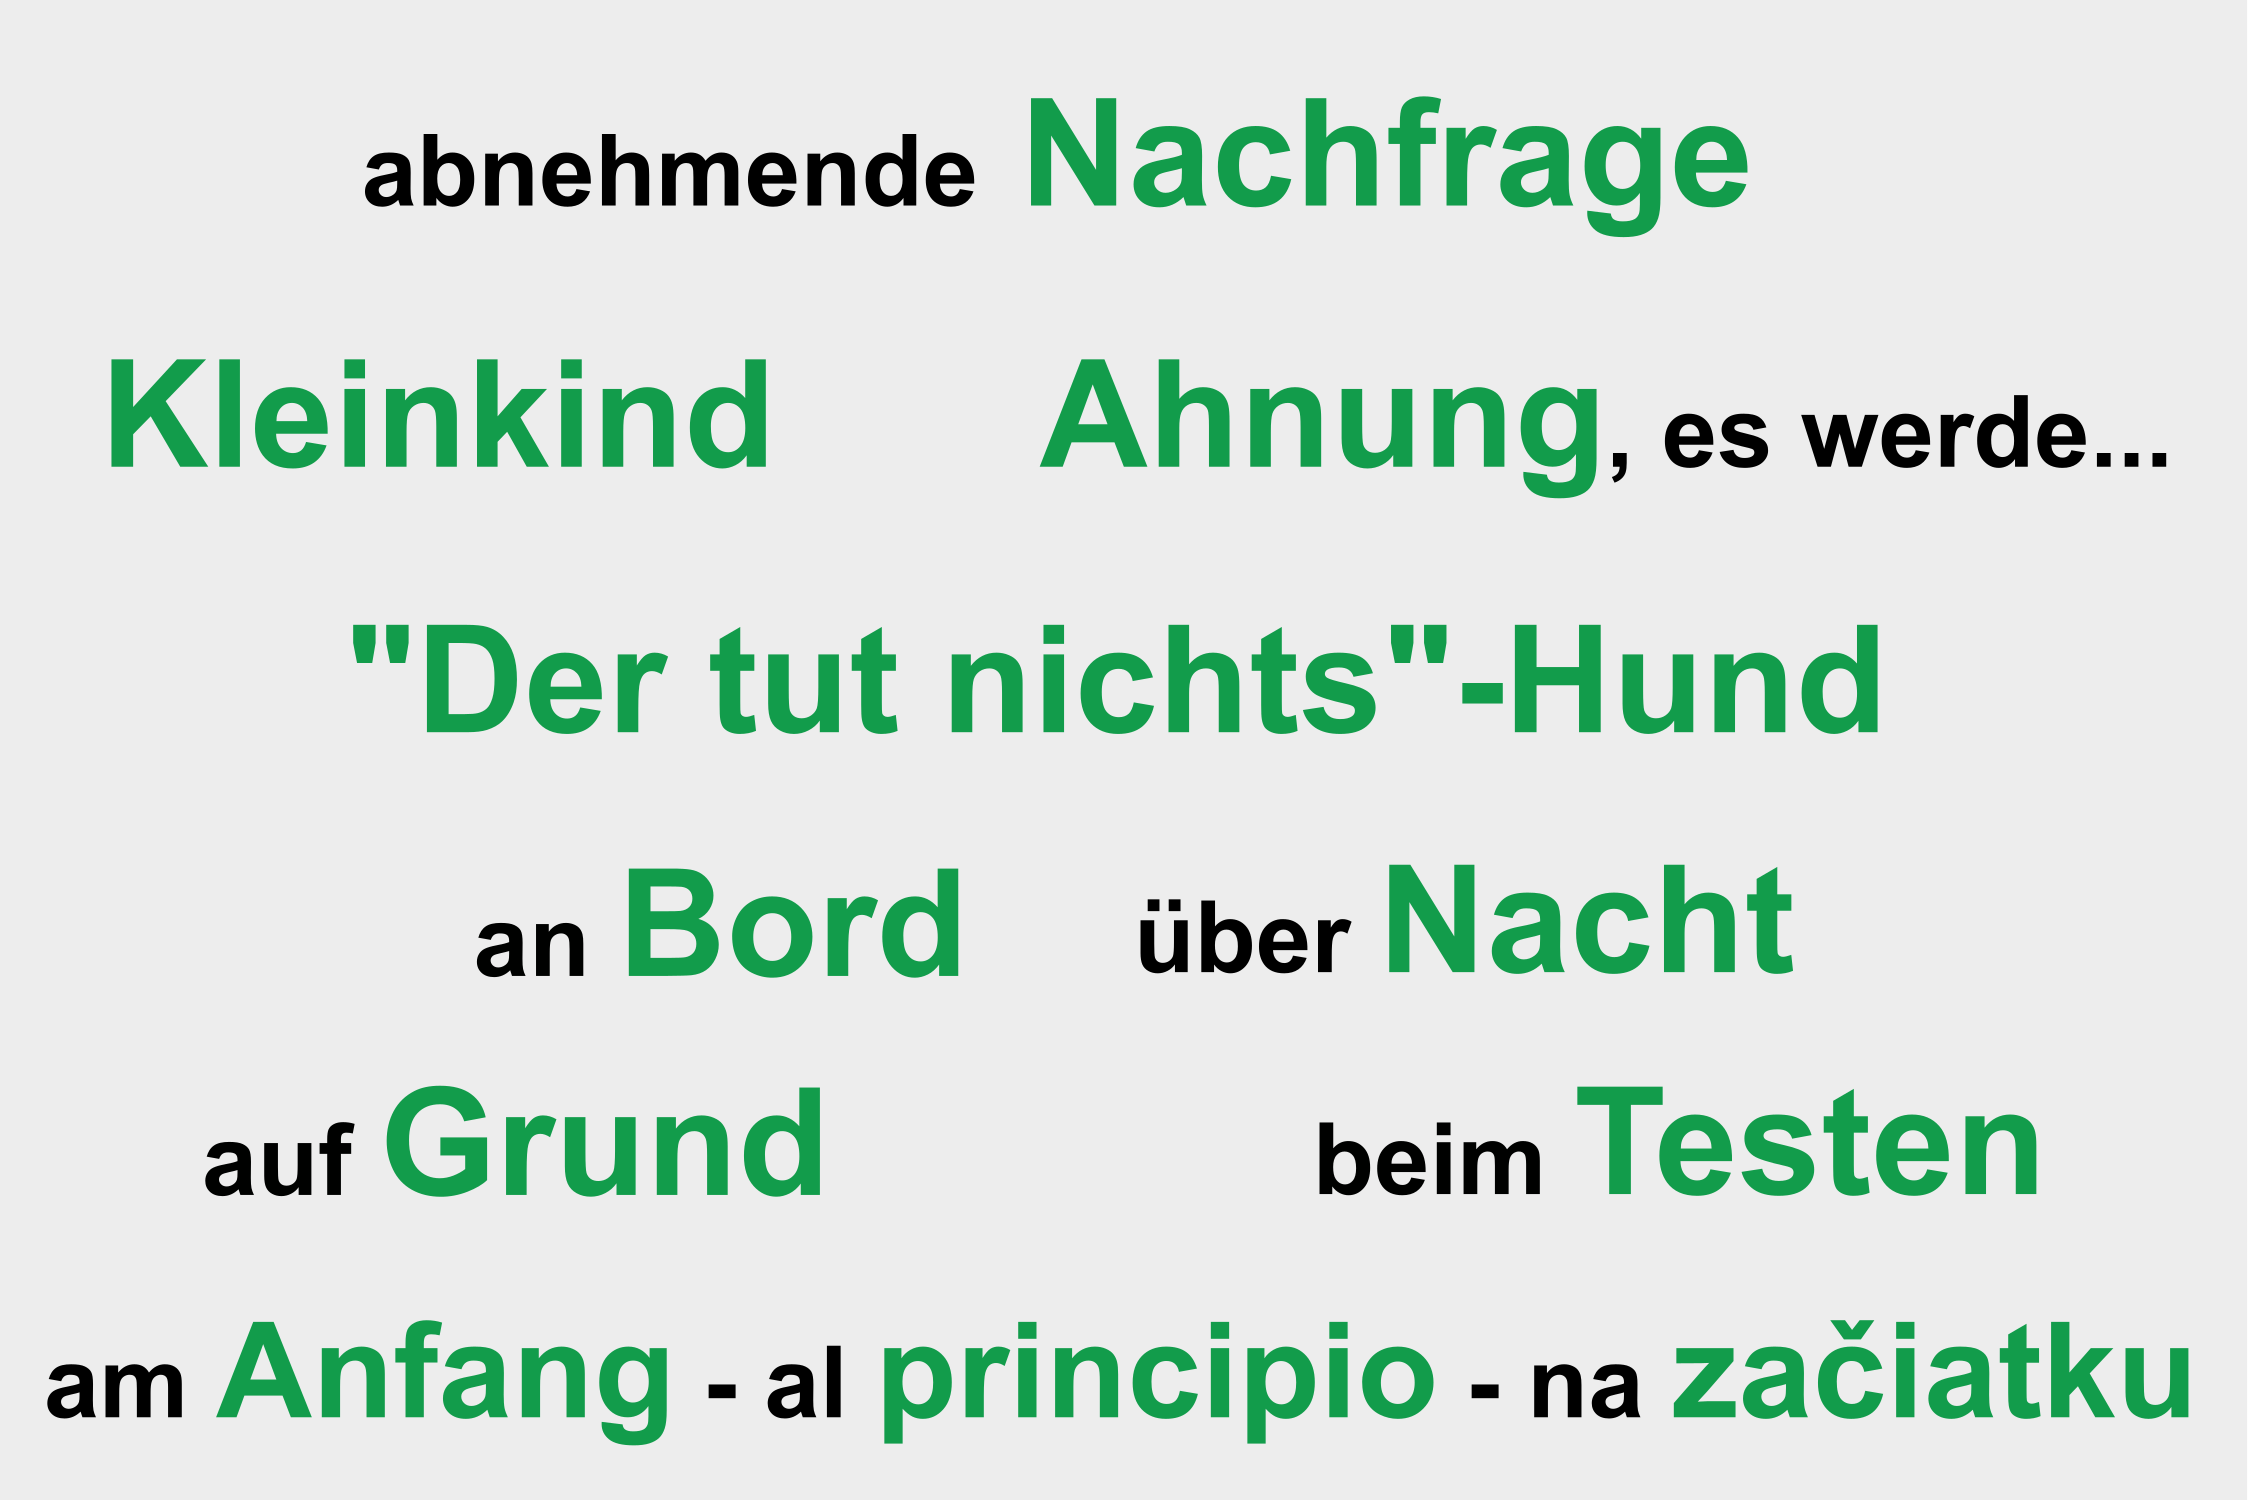
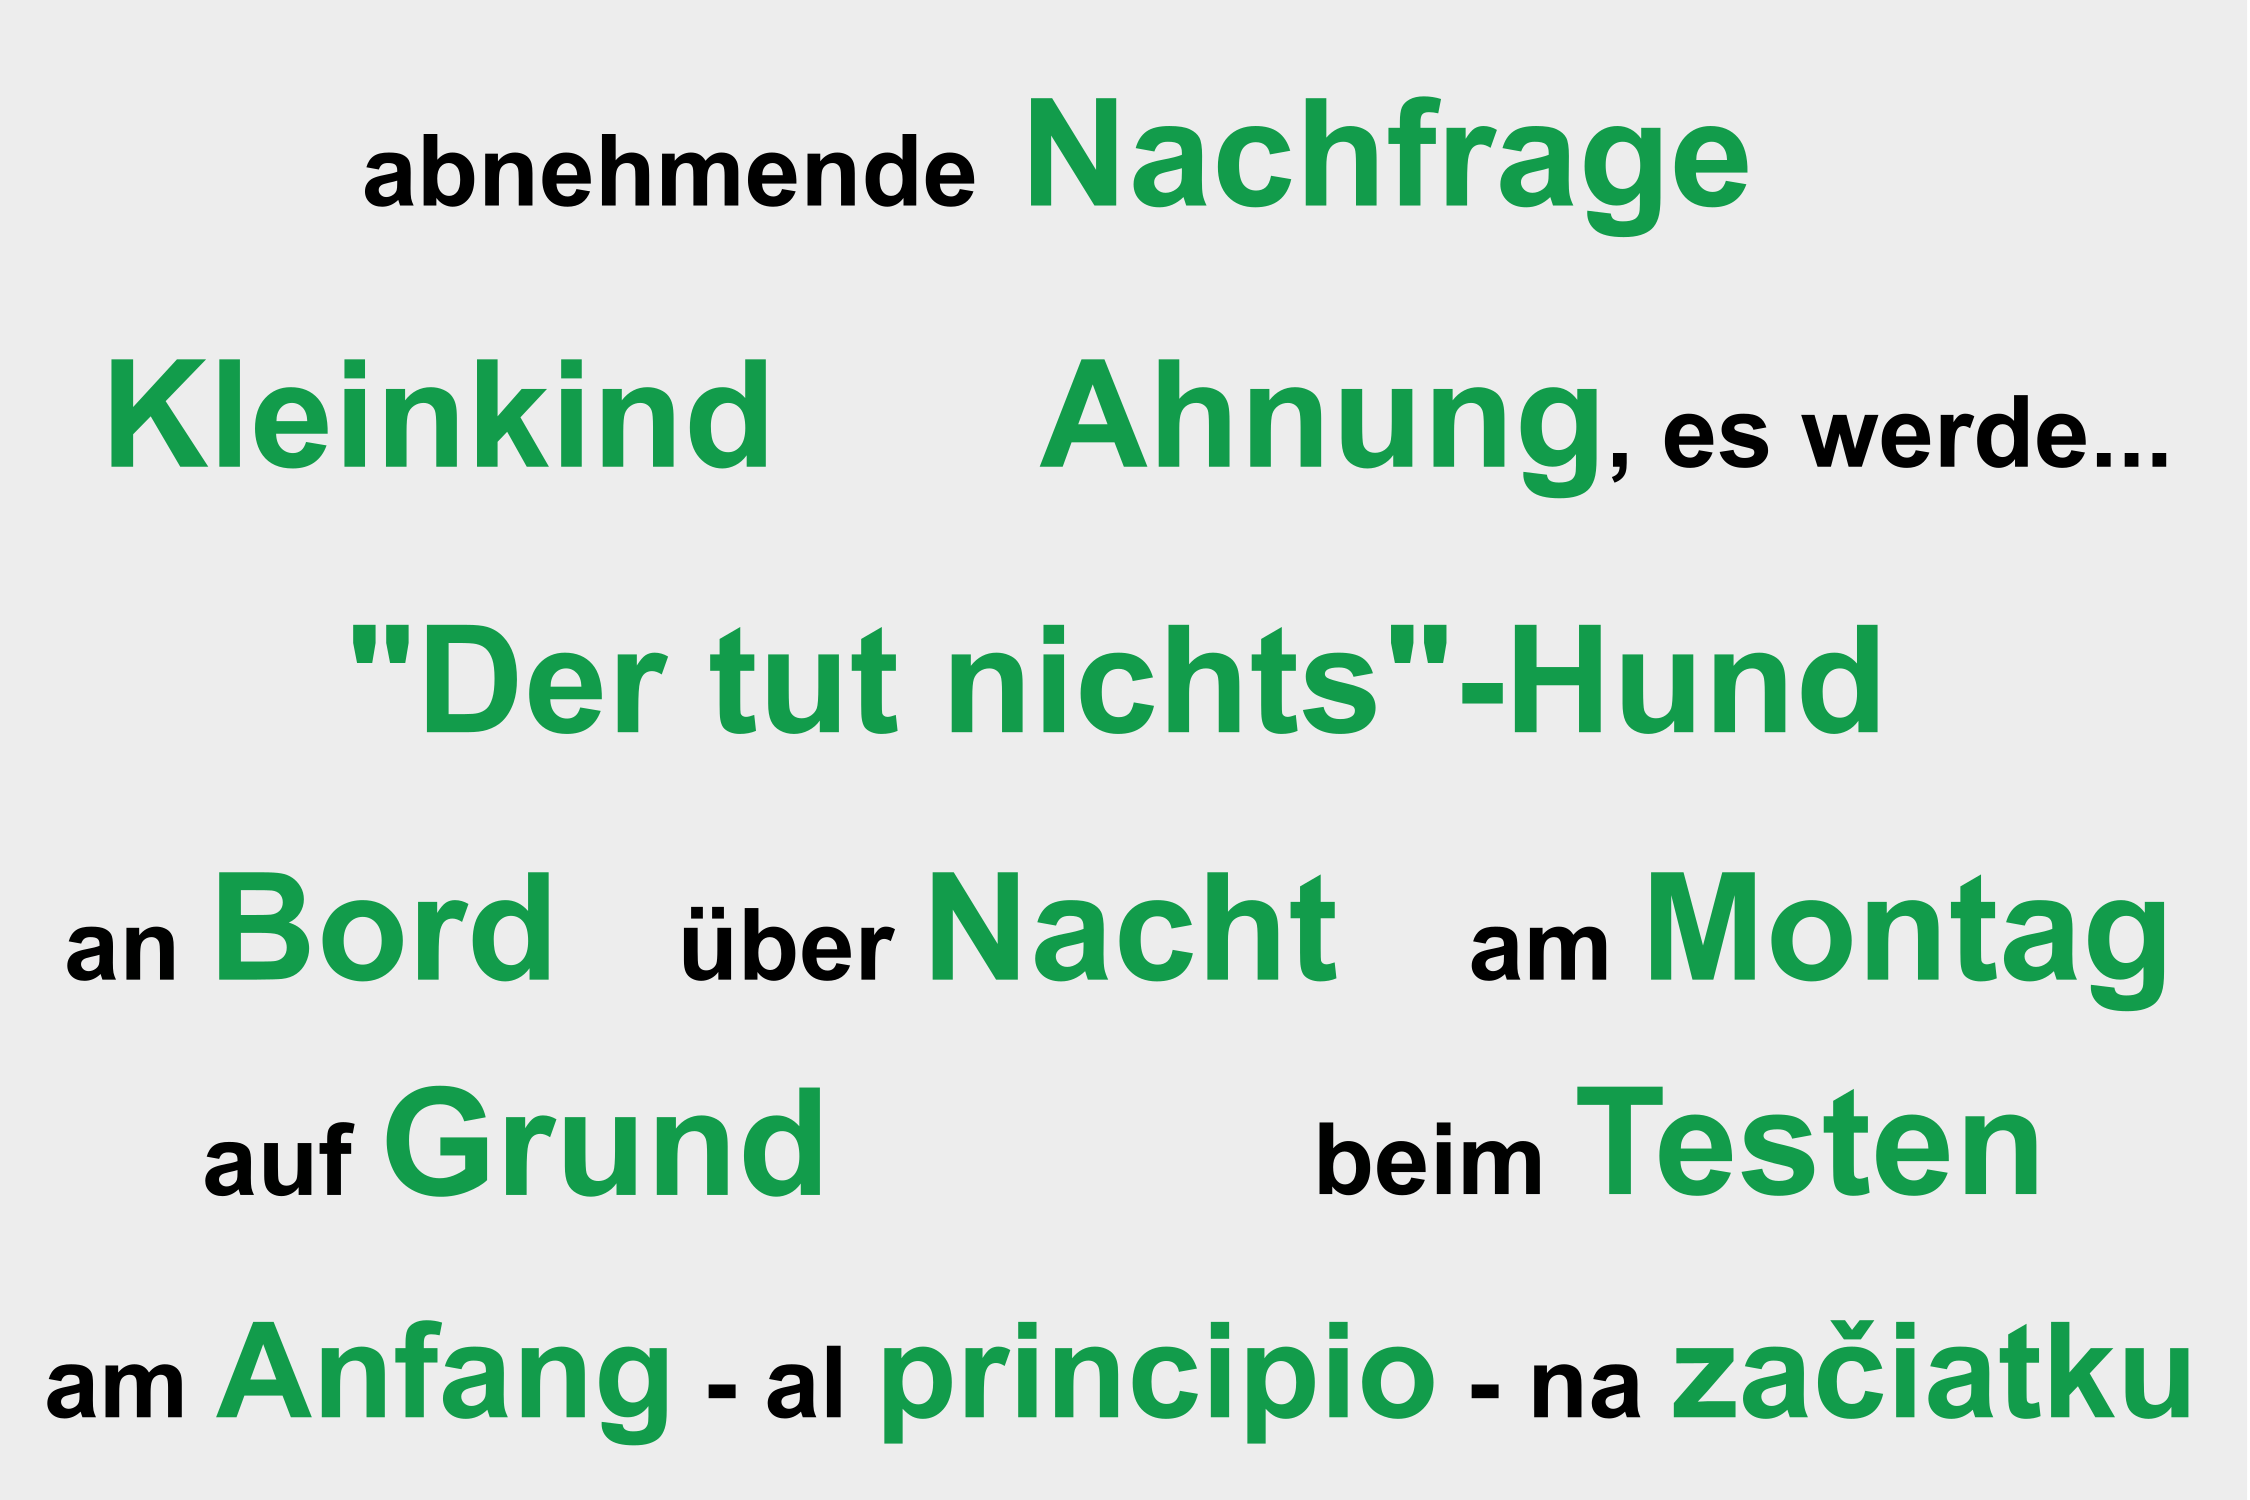
Anpassungen prepcon_temp

Changed region(s): [[0.0311, 0.552, 0.9644, 0.6747]]

diff --git a/pages/pos/nouns.vue b/pages/pos/nouns.vue
@@ -20,7 +20,7 @@ export default {
     <!-- NOTE: Es wird automatisch ein "Übersicht"-Tab angelegt - dieser hat den value="0" -->
     <!-- NOTE: Für jeden v-tab muss es ein <compare-item> geben - der value muss mit der Reihe in :filter übereinstimmen -->
     <compare
-      :filter="['PREPCON_ex', 'PREPCON_temp', 'PREPCON_kon', 'KoMuX', 'PhrasKomp', 'Redeeinleiter', 'Verlaufsformen', 'WVBF', 'DTWW']">
+      :filter="['PREPCON_ex', 'PREPCON_temp_inv', 'PREPCON_temp_art', 'PREPCON_kon', 'KoMuX', 'PhrasKomp', 'Redeeinleiter', 'Verlaufsformen', 'WVBF', 'DTWW']">
       <compare-item value="0">
         <div style="text-align: center; width:100%">
           <NuxtImage src="/img/pos/nouns/nouns_all.png" style="text-align: center;" alt="Beispielgrafik" />
@@ -49,11 +49,38 @@ export default {
         </template>
       </compare-item>
 
-      <compare-item value="2" rkey="PREPCON_temp"
+    
+
+       <compare-item value="2" rkey="PREPCON_temp_inv"
         description="Feste Wortverbindungen des Deutschen - Modul: Wortverbindungen mit Adjektiv">
         <p>
           In
-          <r rkey="PREPCON_temp" /> kann man ein Inventar von
+          <r rkey="PREPCON_temp_inv" /> kann man ein Inventar von
+          Präposition-Nomen-Verbindungen mit Zeit-Nomina abrufen.
+        </p>
+
+        <template #explain>
+          <div>
+
+            <ul>
+              <li>(am) <m>Montag</m>
+              </li>
+              <li>(an) <m>Heiligabend</m>
+              </li>
+              <li>(nach) <m>Februar</m>
+              </li>
+              <li>(vor) <m>Sonnenuntergang</m>
+              </li>
+            </ul>
+          </div>
+        </template>
+      </compare-item>
+
+        <compare-item value="3" rkey="PREPCON_temp_art"
+        description="Feste Wortverbindungen des Deutschen - Modul: Wortverbindungen mit Adjektiv">
+        <p>
+          In
+          <r rkey="PREPCON_temp_art" /> kann man Artikel zu
           Präposition-Nomen-Verbindungen mit Zeit-Nomina abrufen.
         </p>
 
@@ -63,7 +90,7 @@ export default {
             <ul>
               <li>(am) <m>Anfang</m>
               </li>
-              <li>(vor) <m>Sonnenaufgang</m>
+              <li>(im) <m>Moment</m>
               </li>
               <li>(über) <m>Nacht</m>
               </li>
@@ -74,7 +101,7 @@ export default {
         </template>
       </compare-item>
 
-      <compare-item value="3" rkey="PREPCON_kon"
+      <compare-item value="4" rkey="PREPCON_kon"
         description="Musterbank argumentmarkierender Präpositionen - Information: Prädikate (Verbalprädikate und Prädikatsgefüge)">
         <p>
           In
@@ -101,7 +128,7 @@ export default {
         </template>
       </compare-item>
 
-      <compare-item value="4" rkey="KoMuX" description="">
+      <compare-item value="5" rkey="KoMuX" description="">
         <p>
           In
           <r rkey="KoMuX" /> bilden Nomina die Gruppe der
@@ -143,7 +170,7 @@ export default {
         </template>
       </compare-item>
 
-      <compare-item value="5" rkey="PhrasKomp">
+      <compare-item value="6" rkey="PhrasKomp">
         <p>
           In
           <r rkey="PhrasKomp" />
@@ -185,7 +212,7 @@ export default {
         </template>
       </compare-item>
 
-      <compare-item value="6" rkey="Redeeinleiter">
+      <compare-item value="7" rkey="Redeeinleiter">
         <p>
           In
           <r rkey="Redeeinleiter" /> kann man alle Nomen aus dem
@@ -208,7 +235,7 @@ export default {
         </template>
       </compare-item>
 
-      <compare-item value="7" rkey="Verlaufsformen">
+      <compare-item value="8" rkey="Verlaufsformen">
         <p>
           In
           <r rkey="Verlaufsformen" /> wird der Gebrauch
@@ -230,7 +257,7 @@ export default {
         </template>
       </compare-item>
 
-      <compare-item value="8" rkey="WVBF">
+      <compare-item value="9" rkey="WVBF">
         <p>
           In
           <r rkey="WVBF" /> ist das Nomen <em>Grund</em> der
@@ -254,7 +281,7 @@ export default {
         </template>
       </compare-item>
 
-      <compare-item value="9" rkey="DTWW">
+      <compare-item value="10" rkey="DTWW">
         <p>
           In
           <r rkey="DTWW" /> sind Nomina sowohl Basiskomponenten

diff --git a/pages/pos/prepositions.vue b/pages/pos/prepositions.vue
@@ -19,7 +19,7 @@ export default {
         <!-- NOTE: in Filter werden die Ressourcen angegeben -->
         <!-- NOTE: Es wird automatisch ein "Übersicht"-Tab angelegt - dieser hat den value="0" -->
         <!-- NOTE: Für jeden v-tab muss es ein <compare-item> geben - der value muss mit der Reihe in :filter übereinstimmen -->
-        <compare :filter="['PREPCON_ex', 'PREPCON_temp', 'PREPCON_kon', 'KoMuX', 'MAP', 'Verlaufsformen', 'WVBF']">
+        <compare :filter="['PREPCON_ex', 'PREPCON_temp_inv', 'PREPCON_temp_art', 'PREPCON_kon', 'KoMuX', 'MAP', 'Verlaufsformen', 'WVBF']">
             <compare-item value="0">
                 <div style="text-align: center; width:100%">
                     <NuxtImage src="/img/pos/prepositions/prepositions_all.png" style="text-align: center;"
@@ -52,11 +52,38 @@ export default {
                 </template>
             </compare-item>
 
-            <compare-item value="2" rkey="PREPCON_temp">
+             <compare-item value="2" rkey="PREPCON_temp_inv">
                 <p>
                     In
-                    <r rkey="PREPCON_temp" /> kann man ein
+                    <r rkey="PREPCON_temp_inv" /> kann man ein
                     Inventar von
+                    Präposition-Nomen-Verbindungen anhand einer Präpositionen-Stichwortliste abrufen.
+                </p>
+                <template #explain>
+                    <div>
+                        <ul>
+                            <li>
+                                <m>ab</m> (Mittag)
+                            </li>
+                            <li>
+                                <m>an</m> (Wochenenden)
+                            </li>
+                            <li>
+                                <m>bis</m> (Ostern)
+                            </li>
+                            <li>
+                                <m>nach</m> (Sonnenuntergang)
+                            </li>
+                        </ul>
+                    </div>
+                </template>
+            </compare-item>
+
+            <compare-item value="2" rkey="PREPCON_temp_art">
+                <p>
+                    In
+                    <r rkey="PREPCON_temp_art" /> kann man
+                    Artikel zu
                     Präposition-Nomen-Verbindungen anhand einer Präpositionen-Stichwortliste abrufen.
                 </p>
                 <template #explain>
@@ -123,7 +150,7 @@ export default {
                                 <m>Mit</m>-Juror
                             </li>
                             <li>
-                                <m>Mit</m>Drehbuchautor
+                                <m>Mit</m>-Drehbuchautor
                             </li>
                         </ul>
                     </div>

diff --git a/stores/resources.js b/stores/resources.js
@@ -11,7 +11,7 @@ export const useResourcesStore = defineStore("resourcesStore", {
           nameShort: "PREPCON<sup>online</sup>",
           nameLong: "PREPCON - Präposition-Nomen-Verbindungen im Kontext",
           description:
-            "<b>PREPCON<sup>online</sup></b> ist ein neuartiges korpusgesteuertes Präsentationsformat. Es bietet Informationen zum Gebrauch von ca. 80.000 Präposition-Nomen-Verbindungen des Deutschen (z.B. <em>über Jahre; nach Belieben</em>). Abrufbar sind systematisierte Korpusdaten (Frequenzen, KWICs, Volltextstellen, Kookkurrenzprofile, <em>lexpan</em>-Mustertabellen) und narrative Kommentare. Diese verfestigten Ausdrücke und ihnen zugrunde liegende Muster werden in drei Modulen dokumentiert: PREPCON<sup>explorativ</sup>; PREPCON<sup>temporal</sup>; PREPCON<sup>kontrastiv</sup>.",
+            "<b>PREPCON<sup>online</sup></b> ist ein neuartiges korpusgesteuertes Präsentationsformat. Es bietet Informationen zum Gebrauch von ca. 80.000 Präposition-Nomen-Verbindungen des Deutschen (z.B. <em>über Jahre; nach Belieben</em>). Abrufbar sind systematisierte Korpusdaten (Frequenzen, KWICs, Volltextstellen, Kookkurrenzprofile, <em>lexpan</em>-Mustertabellen) und narrative Kommentare. Diese verfestigten Ausdrücke und ihnen zugrunde liegende Muster werden in drei Modulen dokumentiert: PREPCON<sup>explorativ</sup>; PREPCON<sup>temporal</sup> (mit den Unter-Rubriken \"Inventar temporaler PNs\" und \"Kurzartikel zu temporalen PNs\"); PREPCON<sup>kontrastiv</sup>.",
           img: "./img/sources/prepcon.png",
           url: "http://uwv.ids-mannheim.de/prepcon/prepcon_online.html",
           hideInSearch: true,
@@ -31,29 +31,6 @@ export const useResourcesStore = defineStore("resourcesStore", {
           search_patterns: ["dynamische Erschließung"],
           search_parts: ["Nomina", "Präpositionen"],
         },
- {
-          key: "PREPCON_temp",
-          nameShort: "PREPCON<sup>temporal</sup>",
-          nameLong:
-            "PREPCON<sup>temporal</sup> - Kurzartikel und Inventar zu temporalen Präposition-Nomen-Verbindungen im Kontext",
-          description: "",
-          img: "./img/sources/prepcon_temp.png",
-          url: "http://uwv.ids-mannheim.de/prepcon/modul2",
-          tags: [],
-          quest: "",
-          search_type: "Inventare und Sammlungen",
-          search_functions: [
-            "Frequenzen",
-            "KWICs",
-            "Kookkurrenzprofile",
-            "Lückenfüllertabellen",
-            "Komponenten",
-            "Felder",
-            "Belege",
-          ],
-          search_patterns: ["dynamische Erschließung"],
-          search_parts: ["Nomina", "Präpositionen"],
-        }, 
         {
           key: "PREPCON_temp_inv",
           nameShort:

diff --git a/pages/team.vue b/pages/team.vue
@@ -1,5 +1,5 @@
 <template>
-    <h1>Beteiligte Projekte</h1>
+    <h1>Beteiligte Personen und Projekte</h1>
     <div>
         <h2>Entwicklungsteam für das <hi>Syntagmatikon</hi>
         </h2>
@@ -32,7 +32,7 @@
         <v-row class="d-flex align-center">
             <v-col><resources-list-compact :filter="['KoMuX', 'PhrasKomp']" /></v-col>
             <v-col cols="6">
-                <NuxtLink to="https://perso.ids-mannheim.de/seiten/hein.html">Dr. Katrin Hein</NuxtLink>
+                <NuxtLink to="https://perso.ids-mannheim.de/seiten/hein.html">Dr. Katrin Hein-Antonioli</NuxtLink>
             </v-col>
 
         </v-row>
@@ -71,7 +71,7 @@
 
         <h3>Projekte und Arbeitsbereiche</h3>
 
-        <p>Informationen zu beteiligten Projekten und Arbeitsbereichen finden Sie auf folgenden Webseiten:</p>
+        <p>Informationen zu den Projekten und Arbeitsbereichen, in am <hi>Syntagmatikon</hi> beteiligt sind, finden Sie auf folgenden Webseiten:</p>
         <!-- <p style="border-top: solid #C0C0C0 1px; padding-top: 10px"> -->
         <p style="padding-top: 10px">
             <NuxtLink to="https://www.ids-mannheim.de/lexik/syntagmatik-im-lexikon/">Projekt „Syntagmatik im

diff --git a/pages/patterns/index.vue b/pages/patterns/index.vue
@@ -17,7 +17,7 @@ useHead({
 </script>
 
 <template>
-  <div>
+  <div style="max-width: var(--TXT-WIDTH); margin:auto">
     <h1>Musterzugänge</h1>
     <p>
       In dieser <hi>Syntagmatikon</hi>-Rubrik werden die Ressourcen entsprechend der Art ihrer Zugänge zu semiabstrakten und abstrakten Mustern bzw. Konstruktionen gebündelt. Muster
